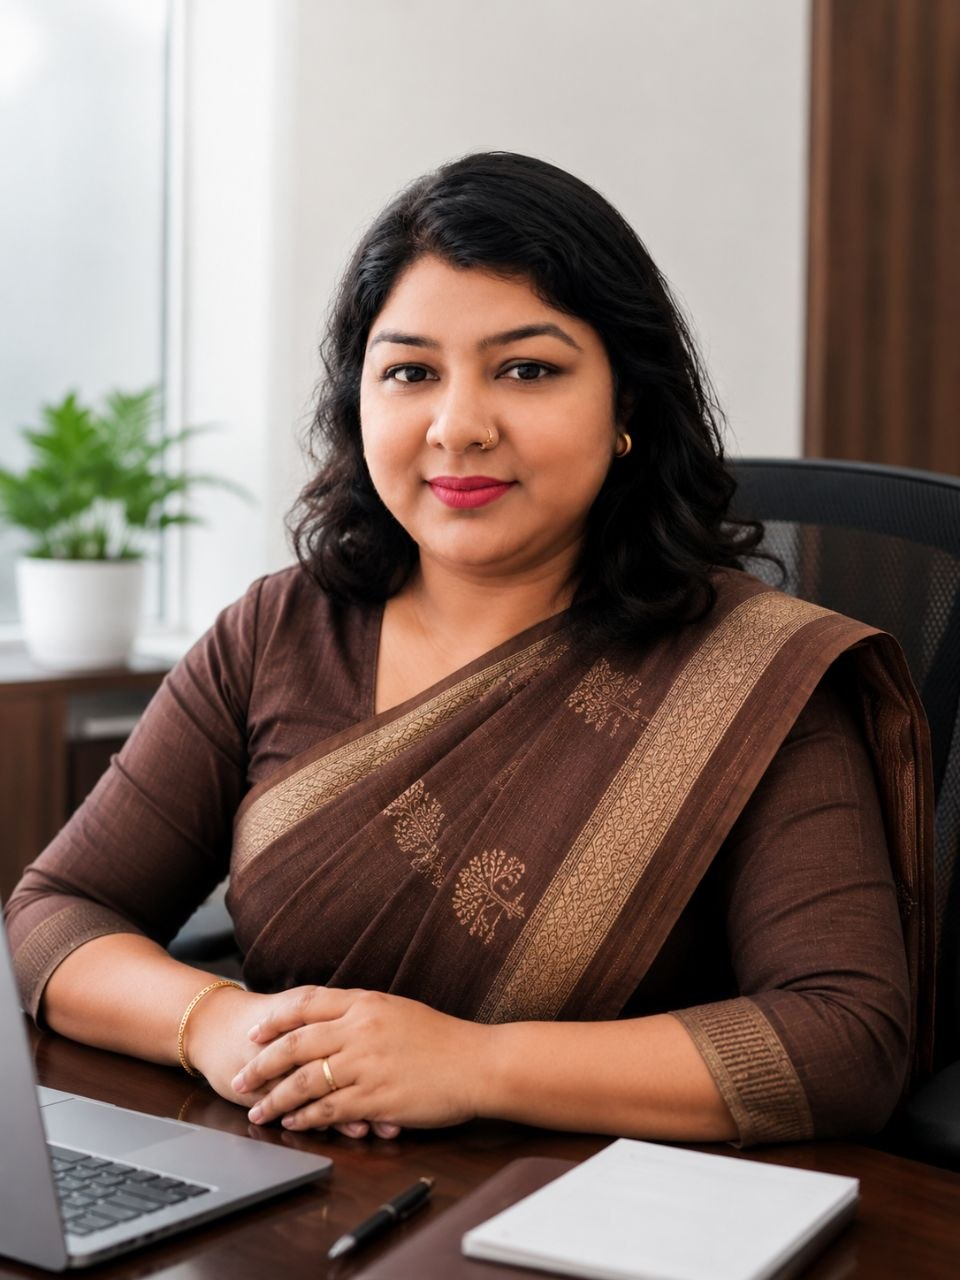
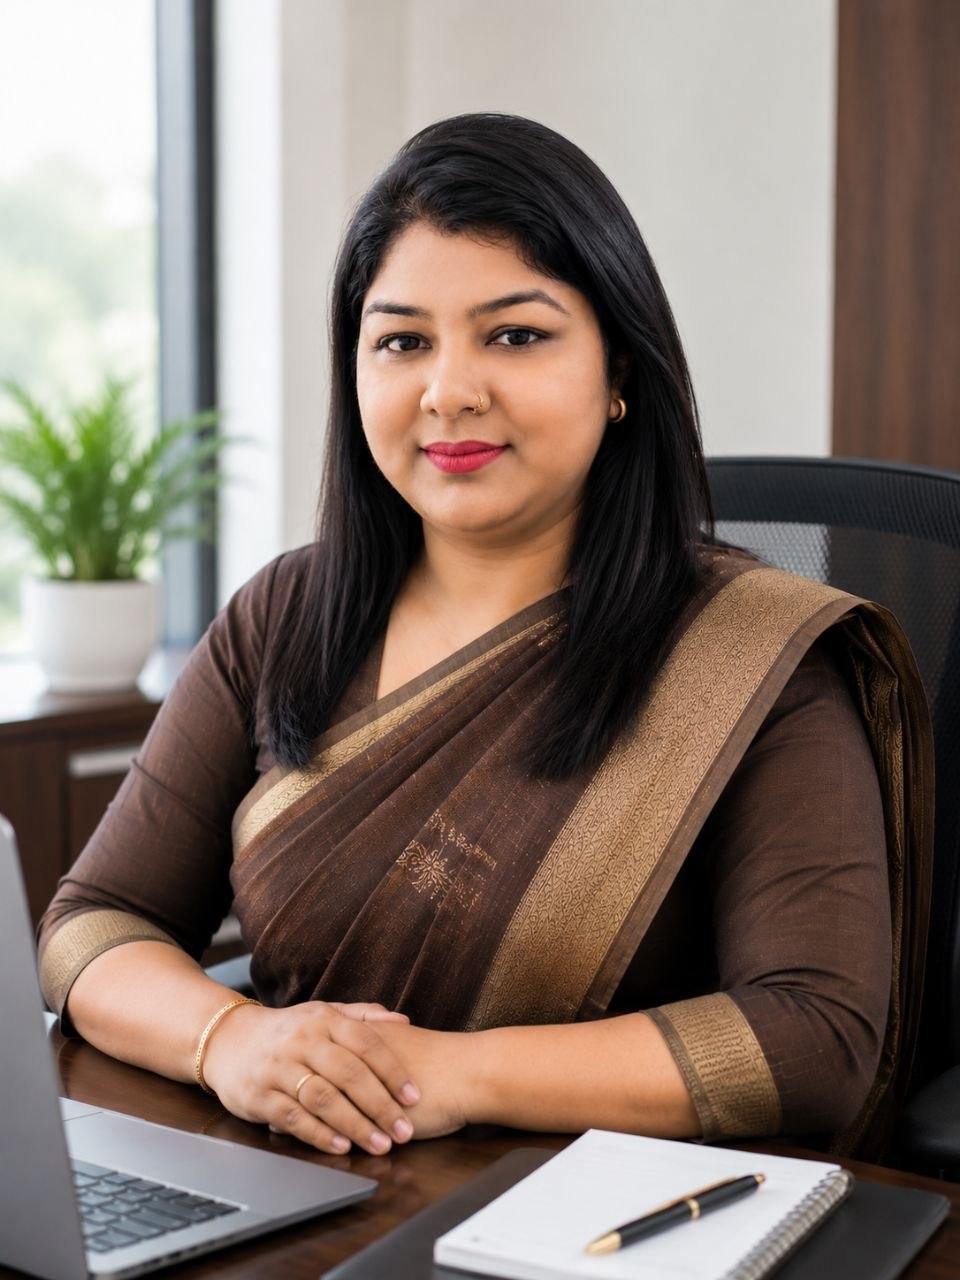
Fix clipped mobile nav panel and restyle it
The panel is position:fixed with inset:0 0 0 auto, but .header carried
backdrop-filter, which makes an element the containing block for its
fixed-position descendants. The panel was therefore sized against the 68px
header instead of the viewport, so only two links were reachable. Moved the
frosted layer to .header::before so the header no longer establishes that
containing block.

Panel redesign:
- fixed head with a Menu label and its own close button. The panel covers the
  header's hamburger on mobile, so there was previously no visible way to
  close it by touch except the scrim
- only the link list scrolls, so the WhatsApp and call buttons stay pinned and
  reachable on short viewports
- gold leading hairline, rounded left corners, gradient surface, hover pill
  with a gold rail and a CSS chevron per row, staggered row entrance
- contact footer gains the 10:00-19:00 IST line
- scrim fades in via animation, since it is toggled with [hidden] and a
  transition cannot run from display:none
- How it works and FAQ added as mobile-only rows; desktop keeps its five
- reset animation-delay under prefers-reduced-motion so staggered rows do not
  sit invisible

Also swaps the portrait to the straight-hair frame that was actually
requested; verified by rendering both candidates side by side.

diff --git a/css/styles.css b/css/styles.css
@@ -333,11 +333,21 @@ button { font: inherit; color: inherit; }
   position: sticky;
   top: 0;
   z-index: 70;
+  border-bottom: 1px solid var(--line);
+  transition: box-shadow .2s var(--ease);
+}
+/* The frosted layer sits on a pseudo-element, not on .header itself.
+   backdrop-filter (like filter) makes an element the containing block for its
+   fixed-position descendants, which clipped the mobile nav panel to the 68px
+   header instead of letting it fill the viewport. */
+.header::before {
+  content: '';
+  position: absolute;
+  inset: 0;
+  z-index: -1;
   background: rgba(251, 248, 243, .88);
   backdrop-filter: saturate(150%) blur(12px);
   -webkit-backdrop-filter: saturate(150%) blur(12px);
-  border-bottom: 1px solid var(--line);
-  transition: box-shadow .2s var(--ease);
 }
 .header.is-stuck { box-shadow: var(--sh-2); }
 .header__inner {
@@ -421,17 +431,25 @@ button { font: inherit; color: inherit; }
 .site-nav__list a:hover { background: var(--brand-100); color: var(--brand); }
 .site-nav__cta { display: flex; align-items: center; gap: var(--s-2); }
 .nav-only-mobile { display: none; }
+/* extra rows that only earn their place in the mobile panel */
+.nav-row-mobile { display: none; }
 
 .nav-scrim {
   position: fixed;
   inset: 0;
   z-index: 65;
-  background: rgba(14, 26, 21, .5);
-  backdrop-filter: blur(2px);
-  -webkit-backdrop-filter: blur(2px);
+  background: rgba(11, 22, 18, .55);
+  backdrop-filter: blur(3px) saturate(120%);
+  -webkit-backdrop-filter: blur(3px) saturate(120%);
 }
+/* the scrim is toggled with [hidden], so fade it in with an animation rather
+   than a transition — a transition would not run on display:none -> block */
+.nav-open .nav-scrim { animation: scrimIn .28s var(--ease) both; }
+@keyframes scrimIn { from { opacity: 0; } to { opacity: 1; } }
 
-/* mobile nav panel */
+/* mobile nav panel: fixed head, scrolling link list, pinned contact footer.
+   Only the list scrolls, so the WhatsApp and call buttons stay reachable no
+   matter how short the viewport is. */
 @media (max-width: 1023px) {
   .site-nav {
     position: fixed;
@@ -439,30 +457,156 @@ button { font: inherit; color: inherit; }
     z-index: 80;
     display: flex;
     flex-direction: column;
-    gap: var(--s-5);
-    width: min(360px, 88vw);
-    padding: calc(var(--s-8) + env(safe-area-inset-top)) var(--s-6) var(--s-8);
-    background: var(--surface-2);
+    gap: 0;
+    width: min(370px, 90vw);
+    max-width: 100vw;
+    padding: 0;
+    background: linear-gradient(180deg, #FFFDFA 0%, var(--surface-2) 45%, #F4EFE6 100%);
     border-inline-start: 1px solid var(--line);
-    box-shadow: var(--sh-4);
-    overflow-y: auto;
+    border-start-start-radius: 20px;
+    border-end-start-radius: 20px;
+    box-shadow: -26px 0 64px -28px rgba(14, 26, 21, .4), var(--sh-4);
+    overflow: hidden;
     transform: translateX(102%);
     visibility: hidden;
-    transition: transform .28s var(--ease), visibility .28s var(--ease);
+    transition: transform .32s var(--ease), visibility .32s var(--ease);
   }
   .nav-open .site-nav { transform: translateX(0); visibility: visible; }
-  .site-nav__list { flex-direction: column; align-items: stretch; gap: var(--s-1); }
-  .site-nav__list a {
-    min-height: 52px;
-    padding-inline: var(--s-4);
-    border-bottom: 1px solid var(--line);
-    border-radius: var(--r-sm);
-    font-family: var(--font-display);
-    font-size: 1.125rem;
-    font-weight: 700;
+
+  /* gold hairline down the leading edge */
+  .site-nav::before {
+    content: '';
+    position: absolute;
+    inset-block: 0;
+    inset-inline-start: 0;
+    width: 2px;
+    background: linear-gradient(180deg, rgba(176, 133, 74, 0) 0%, var(--accent) 22%, var(--accent) 78%, rgba(176, 133, 74, 0) 100%);
+    opacity: .55;
   }
-  .site-nav__cta { flex-direction: column; align-items: stretch; gap: var(--s-3); }
-  .site-nav__cta .btn { width: 100%; min-height: 50px; }
+
+  .site-nav__head.nav-only-mobile {
+    display: flex;
+    align-items: center;
+    justify-content: space-between;
+    gap: var(--s-3);
+    flex: 0 0 auto;
+    padding: calc(var(--s-4) + env(safe-area-inset-top)) var(--s-5) var(--s-4);
+    border-bottom: 1px solid var(--line);
+    background: linear-gradient(180deg, rgba(18, 58, 44, .055), rgba(18, 58, 44, 0));
+  }
+  .site-nav__eyebrow {
+    color: var(--muted-2);
+    font-size: .6875rem;
+    font-weight: 800;
+    letter-spacing: .18em;
+    text-transform: uppercase;
+  }
+  .site-nav__close {
+    display: grid;
+    place-items: center;
+    width: 42px; height: 42px;
+    border: 1.5px solid var(--line-2);
+    border-radius: 12px;
+    background: var(--surface);
+    color: var(--brand);
+    cursor: pointer;
+    transition: border-color .18s var(--ease), background-color .18s var(--ease), transform .18s var(--ease);
+  }
+  .site-nav__close .ico { width: 18px; height: 18px; }
+  .site-nav__close:hover { border-color: var(--brand); background: var(--brand-100); }
+  .site-nav__close:active { transform: scale(.94); }
+
+  .site-nav__list {
+    flex: 1 1 auto;
+    flex-direction: column;
+    align-items: stretch;
+    gap: 2px;
+    padding: var(--s-4);
+    overflow-y: auto;
+    overscroll-behavior: contain;
+    -webkit-overflow-scrolling: touch;
+  }
+  .nav-row-mobile { display: block; }
+  .site-nav__list a {
+    position: relative;
+    justify-content: space-between;
+    min-height: 54px;
+    padding-inline: var(--s-4);
+    border-bottom: 0;
+    border-radius: var(--r-md);
+    color: var(--ink);
+    font-family: var(--font-display);
+    font-size: 1.0625rem;
+    font-weight: 700;
+    letter-spacing: -.005em;
+  }
+  /* gold rail that grows in on touch / hover */
+  .site-nav__list a::before {
+    content: '';
+    position: absolute;
+    inset-block: 13px;
+    inset-inline-start: 0;
+    width: 3px;
+    border-radius: 3px;
+    background: var(--accent);
+    transform: scaleY(0);
+    transition: transform .2s var(--ease);
+  }
+  /* chevron, drawn with borders so it needs no extra markup */
+  .site-nav__list a::after {
+    content: '';
+    width: 7px; height: 7px;
+    border-top: 2px solid var(--muted-2);
+    border-right: 2px solid var(--muted-2);
+    border-radius: 1px;
+    transform: rotate(45deg);
+    transition: transform .2s var(--ease), border-color .2s var(--ease);
+  }
+  .site-nav__list a:hover,
+  .site-nav__list a:active,
+  .site-nav__list a:focus-visible { background: var(--brand-100); color: var(--brand); }
+  .site-nav__list a:hover::before,
+  .site-nav__list a:active::before { transform: scaleY(1); }
+  .site-nav__list a:hover::after,
+  .site-nav__list a:active::after {
+    border-color: var(--accent-600);
+    transform: rotate(45deg) translate(2px, -2px);
+  }
+
+  /* rows fade in one after another as the panel slides open */
+  .nav-open .site-nav__list li { animation: navRowIn .34s var(--ease) both; }
+  .nav-open .site-nav__list li:nth-child(1) { animation-delay: .07s; }
+  .nav-open .site-nav__list li:nth-child(2) { animation-delay: .11s; }
+  .nav-open .site-nav__list li:nth-child(3) { animation-delay: .15s; }
+  .nav-open .site-nav__list li:nth-child(4) { animation-delay: .19s; }
+  .nav-open .site-nav__list li:nth-child(5) { animation-delay: .23s; }
+  .nav-open .site-nav__list li:nth-child(6) { animation-delay: .27s; }
+  .nav-open .site-nav__list li:nth-child(7) { animation-delay: .31s; }
+  @keyframes navRowIn {
+    from { opacity: 0; transform: translateX(16px); }
+    to   { opacity: 1; transform: none; }
+  }
+
+  .site-nav__cta {
+    flex: 0 0 auto;
+    flex-direction: column;
+    align-items: stretch;
+    gap: var(--s-3);
+    padding: var(--s-5) var(--s-5) calc(var(--s-5) + env(safe-area-inset-bottom));
+    border-top: 1px solid var(--line);
+    background: linear-gradient(180deg, rgba(255, 253, 250, .6), rgba(244, 239, 230, .92));
+  }
+  .site-nav__cta .btn { width: 100%; min-height: 52px; }
+  .site-nav__meta.nav-only-mobile {
+    display: flex;
+    align-items: center;
+    justify-content: center;
+    gap: 6px;
+    color: var(--muted-2);
+    font-size: .75rem;
+  }
+  .site-nav__meta .ico { width: 14px; height: 14px; color: var(--accent); }
+
   .nav-only-mobile { display: inline-flex; }
   /* scroll lock while the panel is open */
   .nav-open, .nav-open body { overflow: hidden; touch-action: none; }
@@ -1453,6 +1597,7 @@ button { font: inherit; color: inherit; }
   html { scroll-behavior: auto; }
   *, *::before, *::after {
     animation-duration: .001ms !important;
+    animation-delay: 0ms !important;
     animation-iteration-count: 1 !important;
     transition-duration: .001ms !important;
     scroll-behavior: auto !important;

diff --git a/index.html b/index.html
@@ -237,6 +237,9 @@
     <circle cx="12" cy="12" r="9" fill="none" stroke="currentColor" stroke-width="1.8"/>
     <path fill="none" stroke="currentColor" stroke-width="2" stroke-linecap="round" d="M12 7.5v6M12 16.4v.2"/>
   </symbol>
+  <symbol id="i-close" viewBox="0 0 24 24">
+    <path fill="none" stroke="currentColor" stroke-width="2.2" stroke-linecap="round" d="M6.4 6.4l11.2 11.2M17.6 6.4 6.4 17.6"/>
+  </symbol>
 </svg>
 
 <!-- ============================ 1. ANNOUNCEMENT BAR ============================ -->
@@ -279,13 +282,23 @@
     </button>
 
     <nav class="site-nav" id="siteMenu" aria-label="Main navigation">
+      <div class="site-nav__head nav-only-mobile">
+        <span class="site-nav__eyebrow">Menu</span>
+        <button class="site-nav__close" type="button" id="navClose" aria-label="Close navigation menu">
+          <svg class="ico" aria-hidden="true"><use href="#i-close"></use></svg>
+        </button>
+      </div>
+
       <ul class="site-nav__list">
         <li><a href="#inventory">Inventory</a></li>
         <li><a href="#areas">Areas</a></li>
+        <li class="nav-row-mobile"><a href="#how">How it works</a></li>
         <li><a href="#why">Why Deepika</a></li>
+        <li class="nav-row-mobile"><a href="#faq">FAQ</a></li>
         <li><a href="#visit">Site visit</a></li>
         <li><a href="#contact">Contact</a></li>
       </ul>
+
       <div class="site-nav__cta">
         <a class="btn btn--primary btn--sm" href="https://wa.me/919648410410" data-wa
            data-wa-msg="Namaste Deepika ji! Main Lucknow mein plot / villa / farmhouse ke options dekhna chahta/chahti hoon. Kripya guide kijiye."
@@ -295,6 +308,10 @@
         <a class="btn btn--outline btn--sm nav-only-mobile" href="tel:+919648410410" data-call>
           <svg class="ico" aria-hidden="true"><use href="#i-phone"></use></svg>Call 96484 10410
         </a>
+        <p class="site-nav__meta nav-only-mobile">
+          <svg class="ico" aria-hidden="true"><use href="#i-clock"></use></svg>
+          10:00&#8211;19:00 IST · WhatsApp anytime
+        </p>
       </div>
     </nav>
   </div>

diff --git a/js/main.js b/js/main.js
@@ -676,7 +676,7 @@
      8. MOBILE NAVIGATION
      ------------------------------------------------------------------------ */
   var nav = {
-    toggle: null, panel: null, scrim: null, lastFocus: null, open: false
+    toggle: null, panel: null, scrim: null, close: null, lastFocus: null, open: false
   };
 
   function navIsMobile() {
@@ -746,6 +746,13 @@
     nav.toggle.addEventListener('click', function () {
       if (nav.open) closeNav(true); else openNav();
     });
+
+    /* The panel covers the header's toggle button on mobile, so the panel
+       carries its own close control. */
+    nav.close = $('#navClose');
+    if (nav.close) {
+      nav.close.addEventListener('click', function () { closeNav(true); });
+    }
 
     if (nav.scrim) {
       nav.scrim.addEventListener('click', function () { closeNav(true); });
